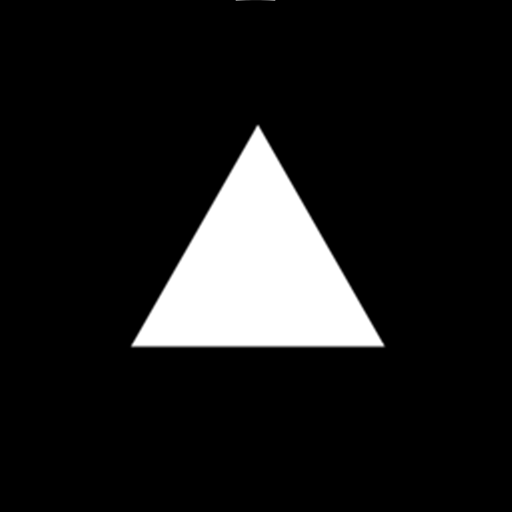
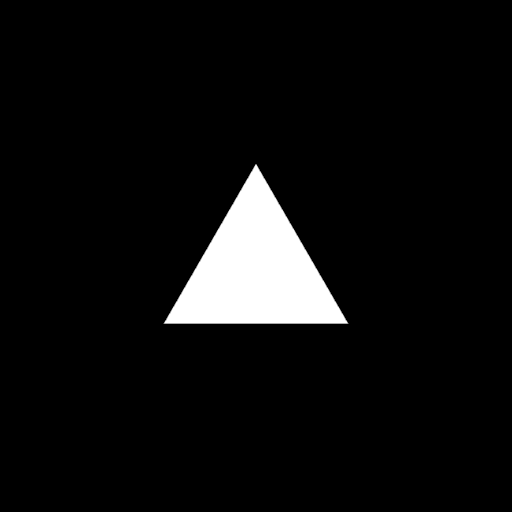
Fix offline mode

Changed region(s): [[0.25, 0.25, 0.75, 0.6875]]

diff --git a/public/offline.html b/public/offline.html
@@ -1,0 +1,124 @@
+<!DOCTYPE html>
+<html lang="en">
+<head>
+  <meta charset="utf-8" />
+  <meta name="viewport" content="width=device-width, initial-scale=1" />
+  <title>Gutschi.site - Offline</title>
+  <style>
+    * { margin: 0; padding: 0; box-sizing: border-box; }
+    body {
+      font-family: -apple-system, BlinkMacSystemFont, "Segoe UI", Roboto, sans-serif;
+      color: #000;
+      background: #fff;
+    }
+    .container {
+      display: none;
+      flex-direction: column;
+      justify-content: center;
+      align-items: center;
+      height: 100vh;
+      text-align: center;
+      gap: 1rem;
+      padding: 2rem;
+    }
+    .container.active { display: flex; }
+    .title { font-size: 2rem; font-weight: 600; }
+    .message { font-size: 1.125rem; color: #666; max-width: 30rem; }
+
+    .spinner {
+      width: 80px; height: 80px;
+      display: flex;
+      justify-content: center;
+      align-items: center;
+    }
+    .spinner div {
+      position: relative;
+      border: 4px solid currentColor;
+      border-radius: 50%;
+      animation: spin 1.5s cubic-bezier(0, 0.2, 0.8, 1) infinite;
+    }
+    @keyframes spin {
+      0%, 9% { opacity: 0; top: 36px; left: 36px; width: 8px; height: 8px; }
+      10% { top: 36px; left: 36px; width: 8px; height: 8px; opacity: 1; }
+      100% { top: 0; left: 0; width: 80px; height: 80px; opacity: 0; }
+    }
+  </style>
+</head>
+<body>
+  <main class="container active" id="starting">
+    <div class="spinner"><div></div></div>
+    <p class="message">The server is currently starting. Please wait a moment.</p>
+  </main>
+
+  <main class="container" id="offline">
+    <h1 class="title">You are offline</h1>
+    <p class="message">Please check your internet connection and try again.</p>
+  </main>
+
+  <main class="container" id="broken">
+    <h1 class="title">Server Error</h1>
+    <p class="message">The server is currently unavailable. Please try again later.</p>
+  </main>
+
+  <main class="container" id="reload">
+    <div class="spinner"><div></div></div>
+    <p class="message">Connected. Redirecting...</p>
+  </main>
+
+  <script>
+    var PING_TIMEOUT_MS = 3000;
+    var POLL_INTERVAL_MS = 1000;
+
+    var containers = {
+      starting: document.getElementById('starting'),
+      offline: document.getElementById('offline'),
+      broken: document.getElementById('broken'),
+      reload: document.getElementById('reload')
+    };
+
+    function show(state) {
+      Object.keys(containers).forEach(function (k) { containers[k].classList.remove('active'); });
+      containers[state].classList.add('active');
+    }
+
+    function scheduleNext() {
+      setTimeout(ping, POLL_INTERVAL_MS);
+    }
+
+    function ping() {
+      if (!navigator.onLine) {
+        show('offline');
+        scheduleNext();
+        return;
+      }
+      var controller = new AbortController();
+      var timeout = setTimeout(function () { controller.abort(); }, PING_TIMEOUT_MS);
+      fetch('/ping', { signal: controller.signal })
+        .then(function (response) {
+          clearTimeout(timeout);
+          if (response.ok) {
+            show('reload');
+            window.location.reload();
+          }
+          else {
+            show('broken');
+            scheduleNext();
+          }
+        })
+        .catch(function (error) {
+          clearTimeout(timeout);
+          if (error instanceof DOMException && error.name === 'AbortError') {
+            show('starting');
+          }
+          else {
+            show('broken');
+          }
+          scheduleNext();
+        });
+    }
+
+    show('starting');
+    ping();
+  </script>
+</body>
+</html>

diff --git a/public/sw.js b/public/sw.js
@@ -1,4 +1,81 @@
-/* global self */
+/* global self, caches */
+const CACHE_NAME = 'pwa-cache-v1'
+const OFFLINE_URLS = ['/offline.html', '/global.css']
+const HTML_TIMEOUT = 3000 // Time in milliseconds to wait for an HTML page to load before falling back to cache
+
+// A helper function that rejects after a set number of milliseconds
+function timeout(ms) {
+  return new Promise((_, reject) => {
+    setTimeout(() => reject(new Error('Network request timed out')), ms)
+  })
+}
+
+// A helper function that handles failed requests by returning a cached response or an offline fallback page
+async function requestFailed(event, error) {
+  console.log(`Fetch failed or timed out: ${error.message}`)
+  const cachedResponse = await caches.match(event.request)
+  if (cachedResponse) {
+    console.log(`Returning cached response for ${event.request.url}`)
+    return cachedResponse
+  }
+  console.log(`No cached response found for ${event.request.url}, returning offline fallback page`)
+  return caches.match('/offline.html')
+}
+
+/**
+ * Install event: This runs when the browser sees this service worker for the first time.
+ */
+self.addEventListener('install', (event) => {
+  // Cache the offline fallback assets
+  event.waitUntil(caches.open(CACHE_NAME).then((cache) => {
+    console.log('PWA: Caching offline fallback assets')
+    return cache.addAll(OFFLINE_URLS)
+  }))
+  // Forces the waiting service worker to become the active service worker immediately
+  self.skipWaiting()
+})
+
+/**
+ * Activate event: This runs after install
+ */
+self.addEventListener('activate', (event) => {
+  // Ensuring old code doesn't break your updated site.
+  event.waitUntil(caches.keys().then((cacheNames) => {
+    return Promise.all(
+      cacheNames.map((cache) => {
+        // If a cache found in storage doesn't match our current CACHE_NAME, delete it
+        if (cache !== CACHE_NAME) {
+          console.log('PWA: Clearing old cache:', cache)
+          return caches.delete(cache)
+        }
+      }),
+    )
+  }))
+  // Allows the service worker to immediately control all open tabs/pages
+  self.clients.claim()
+})
+
+/**
+ * Fetch event: This runs for every network request made by the page.
+ */
 self.addEventListener('fetch', (event) => {
-  event.respondWith(fetch(event.request))
+  // Only fetch GET requests, as other methods (POST, PUT, DELETE) may have side effects and should not be cached.
+  if (event.request.method !== 'GET') return
+
+  // We only apply timeouts to navigation requests (HTML pages)
+  // so we don't break background API calls or huge image downloads.
+  const isHtmlPage = event.request.mode === 'navigate'
+
+  event.respondWith((async () => {
+    const cachedResponse = await caches.match(event.request)
+    if (cachedResponse) {
+      console.log(`PWA: Returning cached response for ${event.request.url}`)
+      return cachedResponse
+    }
+    if (!isHtmlPage) return fetch(event.request)
+    console.log(`PWA: Fetching HTML page ${event.request.url} with timeout of ${HTML_TIMEOUT}ms`)
+    return Promise.race([fetch(event.request), timeout(HTML_TIMEOUT)])
+      .then(r => console.log(`PWA: Fetching HTML page ` + event.request.url + ` completed with status: ` + r.status) || r)
+      .catch(error => requestFailed(event, error))
+  })())
 })

diff --git a/server.ts b/server.ts
@@ -12,6 +12,7 @@ main().catch((e: unknown) => { console.error('Error starting server', e) })
 async function main() {
   const options = await loadOptions()
   const server = await createReactApp(options, options.logger)
+  registerMonitoringHandler(server, options)
   await registerWebSockets(server, options.logger)
   server.listen(options.port, () => {
     options.logger.info(`Application ready on http://${options.hostname}:${options.port.toString()}`)
@@ -57,9 +58,18 @@ async function createReactApp(options: Options, logger: Logger): Promise<Server>
   return server
 }
 
+function registerMonitoringHandler(server: Server, options: Options): void {
+  server.on('request', (req, res) => {
+    const url = new URL(req.url ?? '', `http://${options.hostname}:${options.port.toString()}`)
+    if (url.pathname === '/ping') {
+      res.writeHead(200).end()
+    }
+  })
+}
+
 async function reactRequestHandler(handler: RequestHandler, options: Options, req: IncomingMessage, res: ServerResponse): Promise<void> {
   const { getUserSession } = await import('./app/shared/auth/auth')
-  const publicDoNotLogPaths = ['/_next/', '/__nextjs_source-map', '/ws/', '/.well-known/', '/global.css', '/favicon.ico', '/sw.js', '/manifest.webmanifest', '/manifest.json', '/robots.txt', '/icon-192.png', '/icon-512.png', '/icon-192-maskable.png', '/icon-512-maskable.png']
+  const publicDoNotLogPaths = ['/_next/', '/__nextjs_source-map', '/ws/', '/.well-known/', '/global.css', '/favicon.ico', '/sw.js', '/manifest.webmanifest', '/manifest.json', '/robots.txt', '/icon-192.png', '/icon-512.png', '/icon-192-maskable.png', '/icon-512-maskable.png', '/ping', '/offline.html']
   const publicLogPaths = ['/shared/auth/']
   const url = new URL(req.url ?? '', `http://${options.hostname}:${options.port.toString()}`)
   const method = req.method?.toUpperCase() ?? 'GET'

diff --git a/app/manifest.ts b/app/manifest.ts
@@ -1,12 +1,15 @@
 import type { MetadataRoute } from 'next'
 import { applications } from './shared/Application'
 
+// const baseUrl = 'http://localhost:3000'
+const baseUrl = 'https://www.gutschi.site'
+
 export default function manifest(): MetadataRoute.Manifest {
   return {
     name: 'Gutschi.site',
     description: 'Homeserver dashboard and applications',
-    id: 'https://www.gutschi.site',
-    start_url: 'https://www.gutschi.site/',
+    id: baseUrl,
+    start_url: baseUrl,
     display: 'standalone',
     orientation: 'portrait',
     launch_handler: { client_mode: 'navigate-existing' },
@@ -14,9 +17,9 @@ export default function manifest(): MetadataRoute.Manifest {
     background_color: '#ffffff',
     icons: [
       { src: '/icon-192.png', sizes: '192x192', type: 'image/png' },
-      { src: '/icon-512.png', sizes: '512x512', type: 'image/png', purpose: 'any' },
       { src: '/icon-512-maskable.png', sizes: '512x512', type: 'image/png', purpose: 'maskable' },
+      { src: '/icon-512.png', sizes: '512x512', type: 'image/png', purpose: 'any' },
     ],
-    shortcuts: applications.map(a => ({ name: a.name, description: a.description, url: 'https://www.gutschi.site' + a.link })),
+    shortcuts: applications.map(a => ({ name: a.name, description: a.description, url: baseUrl + a.link })),
   }
 }
